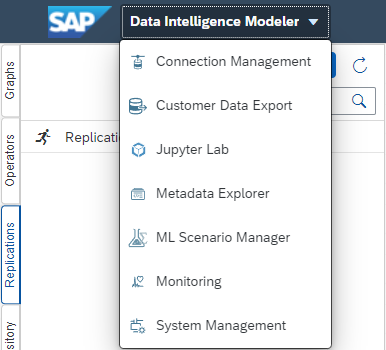
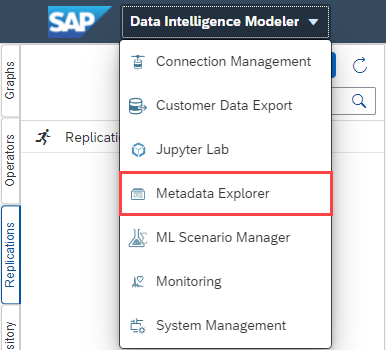
RF exercise updated details

Changed region(s): [[0.3109, 0.4857, 0.8705, 0.6286]]

diff --git a/exercises/ex3/README.md b/exercises/ex3/README.md
@@ -52,25 +52,43 @@ For the integration of ABAP CDS Views in S/4HANA, SAP Data Intelligence provides
     ![RF Mapping Timestamp](img/RF_Mapping_Timestamp.png)
     - Click on the **OK** Button to save the mapping for the CDS View Z_CDS_EPM_PD_XX
 
-13. For the CDS View Z_CDS_EPM_PO_XX we want to filter the column GrossAmount for all rows which are >= 800 €. Click to filter the CDS View on the ![RF Filter GrossAmount](img/Filter_Icon.png) icon
+13. For the CDS View Z_CDS_EPM_PO_XX we want to filter the column GrossAmount for all rows which are >= 800 €. Click to filter the CDS View on the ![RF Filter Icon](img/Filter_Icon.png) icon
     - Scroll on the opened window until the column GrossAmount
     - Click on the left side on the left side on the field GrossAmount
     - Change the = operator to an >= from the drop-down
     -  Enter in the Value field on the ríght side the value **800**
-    -  
-14. Click on the Validate button and then on the execution button to run the replication
-15. After the replication is finished, click on the Data Intelligence Modeler banner at the top of the screen
-16. In the Drop-Down menu click on the Metadata Explorer row to browse the replicated data
+    ![RF Filter GrossAmount](img/RF_Filter_GrossAmount.png)
+    -  Click on the **OK** Button to save the mapping for the CDS View Z_CDS_EPM_PO_XX
+
+14. For the CDS View Z_CDS_EPM_SO we combine the mapping and filtering together for our replication. For the sales orders we are interested filtering for all printers within our orders. We want to also add within our replicated dataset a new column storing the exact timestamp of our replication
+    - For the filtering of all printers click on the filter icon and scroll down to the column ProductCategory
+    - In total three different printers are present within the ProductCategory column: **Laser Printers**, **Ink Jet Printers** and **Multifunction Printers**
+    - To filter for all items we click two times on the Add button to have three rows present for the three product categories
+    - Enter for each row in the filtering option one of the Product Categories as displayed in below picture
+    ![RF Filter ProductCategory](img/RF_Filter_ProductCategory.png)
+
+15. Click on the Validate button ![RF Validate Button](img/RF_Validate_Button.png)  to check if every check runs through smoothly. An ideal validation is displayed in belows image
+
+![RF Validation Check](img/RF_Validation_Check.png)
+
+16. After everything went through in the validation check we can deploy our Replication Flow by clicking on the deploy button ![RF Deploy Button](img/RF_Deploy_Button.png)
+
+17. After the deployment of the Replication Flow is completed, we can press the run button ![RF Run Button](img/RF_Run_Button.png) to start the replication with our specified settings
+
+18. After the replication is finished, click on the Data Intelligence Modeler banner at the top of the screen
+
+19. In the Drop-Down menu click on the Metadata Explorer row to browse the replicated data
 
 ![DropDown Metadata Explorer](img/DI_Pipeline_DropDown.png)
 
-15. In the newly opened tab click on the Browse Connections option to navigate the HANA database we replicated our data to
+20. In the newly opened tab click on the Browse Connections option to navigate the HANA database we replicated our data to
 
 ![Metadata Explorer](img/Metadata_Explorer_BrowseConnections.png)
 
-16. To navigate to the replicated datasets click through with the following steps
+21. To navigate to the replicated datasets click through with the following steps
     - Click on HANA_CLOUD tile
     - Click on TECHED_DA281 tile
     - Click on the replicated datasets **Z_CDS_EPM_SO_XX**, **Z_CDS_EPM_PO_XX**, **Z_CDS_EPM_PD_XX**
     - Click for each dataset on the Data Preview tab and explore for each dataset the data replicated
-17.  After the replication flow has successfully run and you explored the data, execute the Custom ABAP operator created in Exercise **Link_to_Custom_Operator_Ex** to create new sales orders
+
+22.  After the replication flow has successfully run and you explored the data, execute the Custom ABAP operator created in Exercise **Link_to_Custom_Operator_Ex** to create new sales orders
